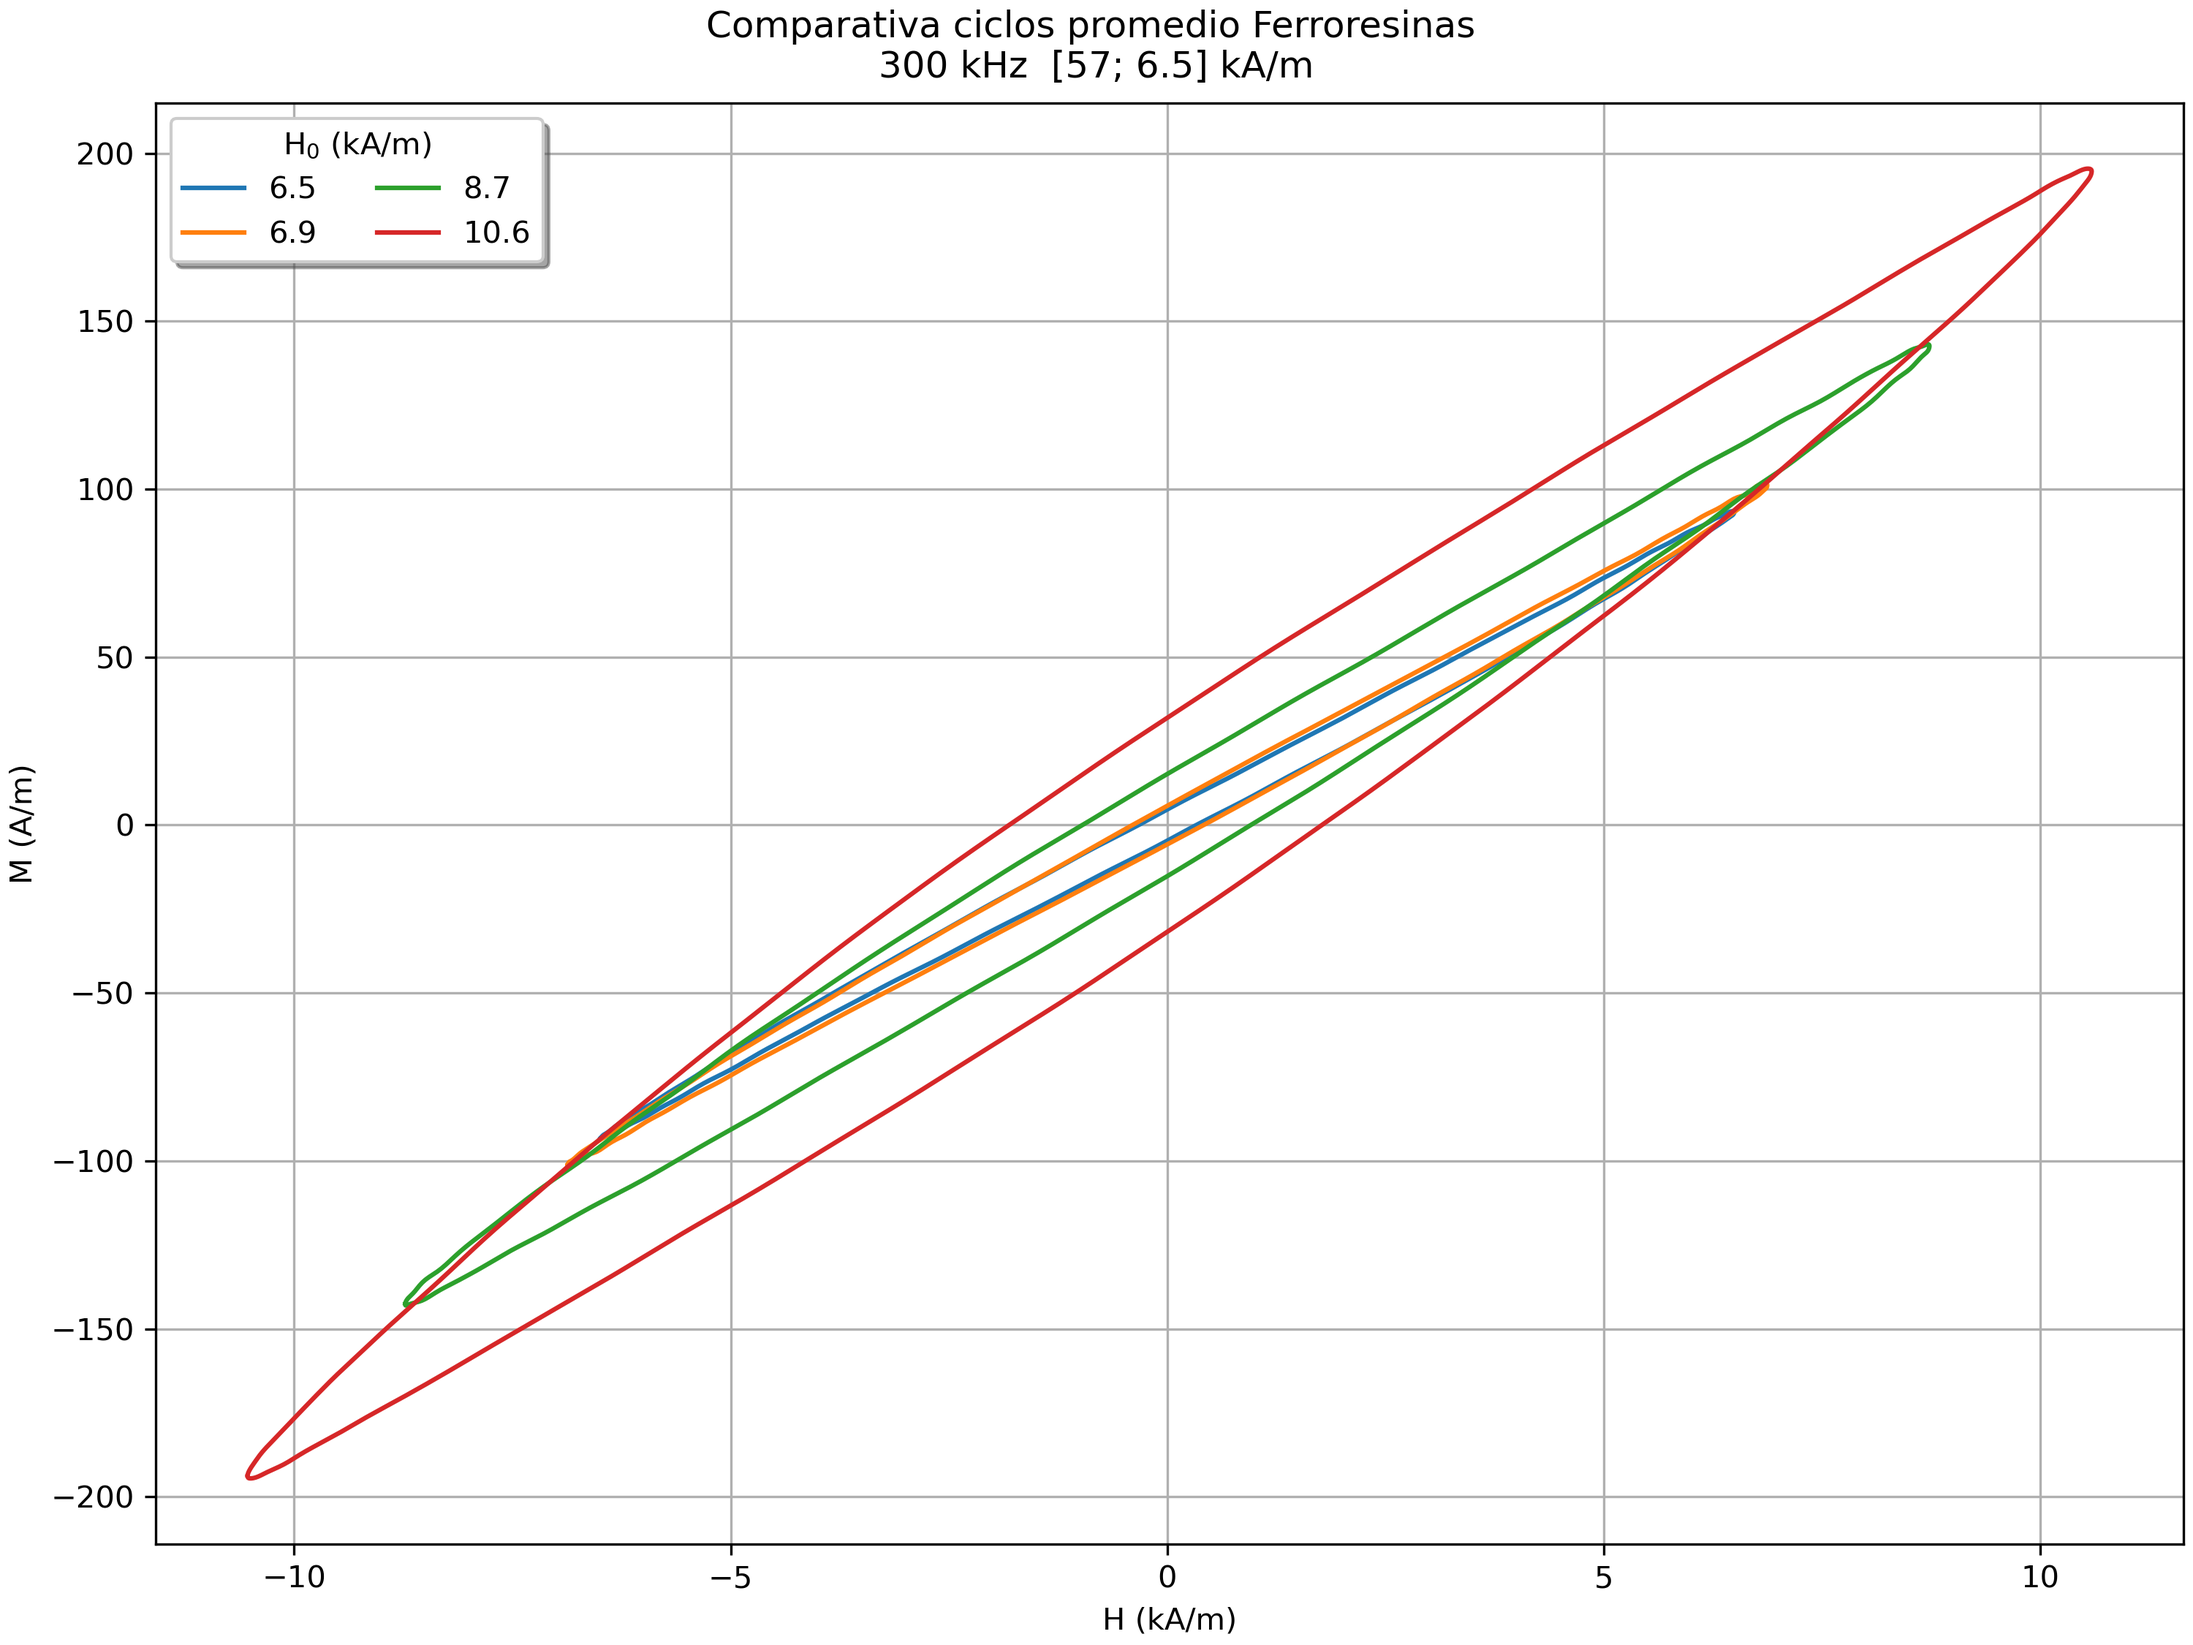
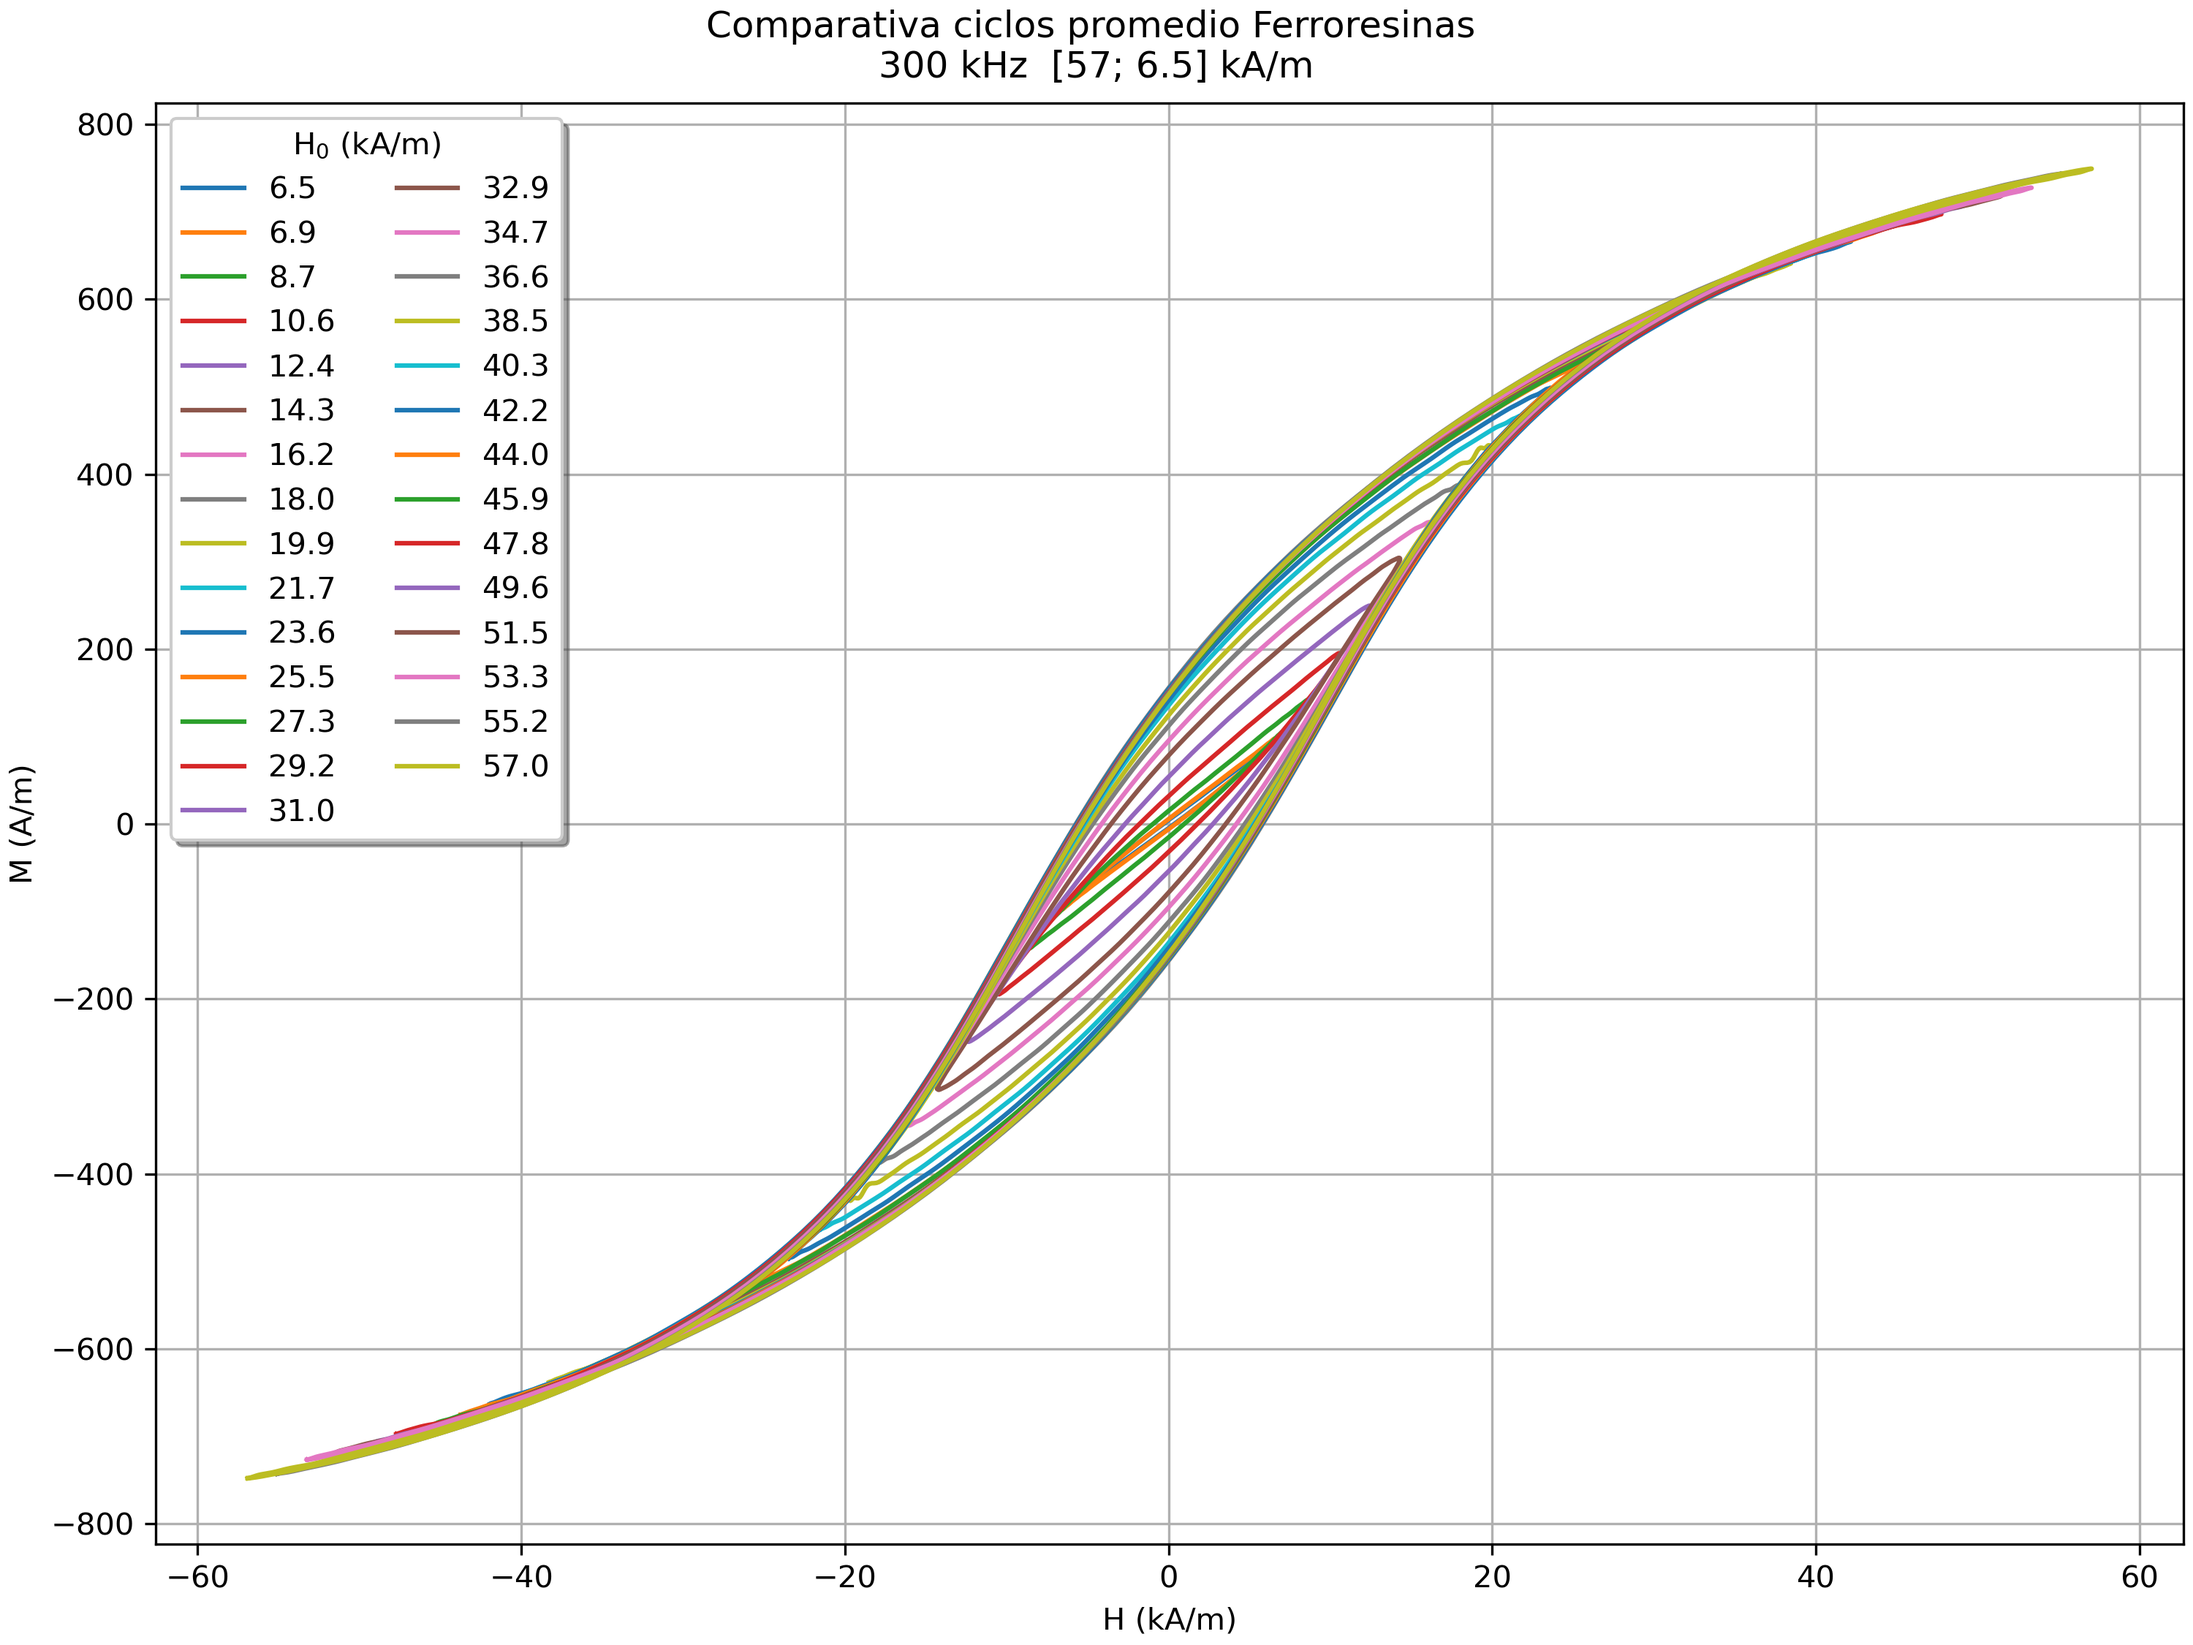
update

diff --git a/comparativa_FR.py b/comparativa_FR.py
@@ -145,7 +145,7 @@ fig00, ax =plt.subplots(figsize=(10,7.5),constrained_layout=True,sharey=True,sha
 
 ax.set_ylabel('M (A/m)')
 
-for i,e in enumerate(ciclos_FR[:4]):
+for i,e in enumerate(ciclos_FR[:]):
     _,_,_, H_FR,M_FR,_ = lector_ciclos(ciclos_FR[i])
     ax.plot(H_FR/1000,M_FR,'-',label=f'{H0[i]:.1f}')
     
